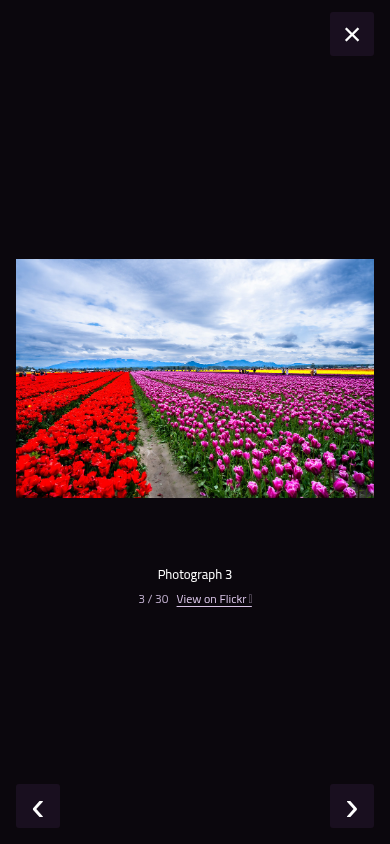
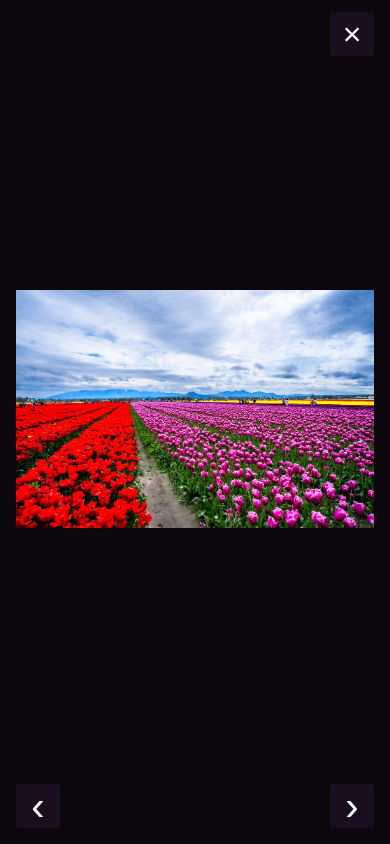
Simplify photo gallery and lightbox presentation

Changed region(s): [[0.0308, 0.3081, 0.9846, 0.6469], [0.4, 0.6777, 0.6462, 0.7393]]

diff --git a/src/style.css b/src/style.css
@@ -1,2 +1,2 @@
 :root{color-scheme:dark;font-family:'Cairo',sans-serif;color:#f5f3f8;background:#180829;font-synthesis:none;text-rendering:optimizeLegibility;-webkit-font-smoothing:antialiased}
-*{box-sizing:border-box}body{margin:0;min-width:280px;min-height:100dvh}a{color:inherit;text-underline-offset:.22em}button{font:inherit;color:inherit;cursor:pointer}button,a{-webkit-tap-highlight-color:transparent}button:focus-visible,a:focus-visible{outline:2px solid #e0b6ff;outline-offset:5px}button:disabled{cursor:default}[hidden]{display:none!important}.sr-only{position:absolute;width:1px;height:1px;overflow:hidden;clip-path:inset(50%);white-space:nowrap}.skip-link{position:fixed;left:12px;top:12px;padding:12px;background:#28113e;z-index:100;transform:translateY(-160%)}.skip-link:focus{transform:none}.background{position:fixed;inset:0;z-index:-1;background:#211039 url('/background.jpg') center/cover no-repeat;pointer-events:none}.background-video{position:absolute;inset:0;width:100%;height:100%;object-fit:cover;opacity:0;transition:opacity .25s}.background-video.is-playing{opacity:1}.background-shade{position:absolute;inset:0;background:rgba(0,0,0,.66);transition:opacity .4s}body[data-page=home] .background-shade{opacity:0}.site-header{position:relative;z-index:2;padding:12px 20px 8px;transition:transform .3s}nav{display:flex;justify-content:center;gap:32px;font-family:'Poiret One',sans-serif;font-size:36px;line-height:1.4}nav a{position:relative;text-decoration:none;padding:4px 0;white-space:nowrap}nav a::after{content:'';position:absolute;bottom:0;left:0;right:0;height:1px;background:currentColor;transform:scaleX(0);transition:transform .2s}nav a:hover::after,nav a[aria-current=page]::after{transform:scaleX(1)}nav a[aria-current=page]{text-shadow:0 0 8px #fff8}body[data-page=home] .site-header{transform:translateY(40vh)}#main{outline:none;max-width:1440px;margin:12px auto 0;padding:0 32px 72px}body[data-page=home] #main{padding:0;margin:0}.motion-toggle{position:fixed;right:16px;bottom:12px;z-index:3;padding:6px 12px;font-size:12px;letter-spacing:.03em;background:#170824d9;border:1px solid #bba8d060;border-radius:3px}.motion-toggle:hover{background:#392246}.about-page{max-width:1120px;margin:20px auto;display:grid;grid-template-columns:minmax(240px,1fr) 2fr;gap:48px;animation:page-in .35s ease-out}.profile{align-self:start}.portrait{display:block;width:100%;height:auto;aspect-ratio:2/3;object-fit:cover}.profile h1{font-family:'Poiret One',sans-serif;font-weight:400;font-size:38px;line-height:1.2;margin:22px 0 8px}.subtitle{font-family:'Poiret One',sans-serif;font-size:23px;line-height:1.4;margin:0}.about-copy{font-size:16px;line-height:1.7}.about-copy>p{margin-top:0}.about-copy section{margin-top:28px}.about-copy h2{font-family:'Poiret One',sans-serif;font-size:27px;line-height:1.3;font-weight:400;margin:0 0 9px}.about-copy p{margin:0}.about-copy a{color:#dcb8f5}.photography-page{animation:page-in .35s ease-out}.gallery{display:grid;grid-template-columns:repeat(auto-fit,minmax(min(100%,280px),1fr));gap:4px}.photo-card{position:relative;min-width:0}.photo-open{position:relative;display:block;width:100%;aspect-ratio:1;border:0;padding:0;background:#24152f;overflow:hidden}.photo-open img{display:block;width:100%;height:100%;object-fit:cover;opacity:0;transition:opacity .35s,filter .3s,transform .3s}.photo-open.loaded img{opacity:1}.photo-fallback{display:none;position:absolute;inset:0;place-items:center;font-size:13px}.image-failed .photo-fallback{display:grid}.photo-source{position:absolute;bottom:7px;right:7px;font-size:10px;line-height:1;padding:6px;background:#170b21ad;text-decoration:none;opacity:0;transition:opacity .2s}.photo-card:focus-within .photo-source,.photo-card:hover .photo-source{opacity:1}.photo-source:focus-visible{opacity:1}@media(hover:hover) and (pointer:fine){.photo-open img{filter:grayscale(1) brightness(.9)}.photo-open:hover img,.photo-open:focus-visible img{filter:none;transform:scale(1.035)}}.gallery-credit{font-size:13px;text-align:center;color:#cbbbd4;margin:24px 0}.gallery-status{padding:80px 20px;text-align:center;min-height:40vh}.text-button{border:1px solid #aa8cbd;background:#352144;padding:8px 20px;margin-top:18px;border-radius:3px}.lightbox{position:fixed;inset:0;border:0;padding:0;margin:0;width:100vw;height:100dvh;max-width:none;max-height:none;background:#0b070ef5;color:#fff;overflow:auto}.lightbox::backdrop{background:#09050d}.lightbox-shell{min-height:100%;display:flex;align-items:center;justify-content:center;padding:56px 64px 48px}.lightbox figure{margin:0;width:100%;text-align:center}.lightbox-image-wrap{display:flex;align-items:center;justify-content:center;min-height:40vh}.lightbox img{display:block;max-width:100%;max-height:calc(100dvh - 160px);width:auto;height:auto;object-fit:contain}.lightbox figcaption{display:flex;align-items:center;justify-content:center;gap:20px;flex-wrap:wrap;margin-top:18px;font-size:14px;line-height:1.4}.lightbox-count{color:#bbaac8;font-size:12px}.lightbox-source{font-size:12px;color:#d8c3e6}.icon-button{border:0;background:#211329aa;border-radius:3px;width:44px;height:44px;display:grid;place-items:center;line-height:1;font-family:Arial,sans-serif;font-size:40px}.lightbox-close{position:absolute;top:12px;right:16px;font-size:32px}.lightbox-prev,.lightbox-next{position:absolute;top:45%;z-index:2}.lightbox-prev{left:8px}.lightbox-next{right:8px}.lightbox-status{position:absolute;bottom:12px;left:48px;right:48px;text-align:center;font-size:13px}.not-found{padding:80px 0;text-align:center}.noscript-message{position:relative;margin:48vh auto 0;padding:24px;max-width:600px;text-align:center}@keyframes page-in{from{opacity:0}to{opacity:1}}@media(max-width:960px){.about-page{gap:28px}.gallery{grid-template-columns:repeat(2,minmax(0,1fr))}}@media(max-width:640px){.site-header{padding:14px 12px 8px}nav{font-size:clamp(24px,6.4vw,32px);gap:22px}#main{padding:0 12px 66px;margin-top:14px}.about-page{display:block;max-width:440px;margin:12px auto}.profile{max-width:320px;margin:0 auto 30px}.profile h1{font-size:34px}.about-copy{font-size:15px}.gallery{gap:3px}.photo-source{opacity:1;font-size:9px;padding:4px}.gallery-credit{font-size:11px}.motion-toggle{font-size:11px;right:10px;bottom:10px}.lightbox-shell{padding:64px 16px 90px}.lightbox img{max-height:calc(100dvh - 220px)}.lightbox-prev,.lightbox-next{top:auto;bottom:16px}.lightbox-prev{left:16px}.lightbox-next{right:16px}.lightbox figcaption{gap:8px;font-size:13px}.lightbox figcaption #lightbox-title{width:100%}.lightbox-status{bottom:66px;left:16px;right:16px;font-size:12px}}@media(prefers-reduced-motion:reduce){*,*::before,*::after{animation:none!important;transition:none!important;scroll-behavior:auto!important}}
+*{box-sizing:border-box}body{margin:0;min-width:280px;min-height:100dvh}a{color:inherit;text-underline-offset:.22em}button{font:inherit;color:inherit;cursor:pointer}button,a{-webkit-tap-highlight-color:transparent}button:focus-visible,a:focus-visible{outline:2px solid #e0b6ff;outline-offset:5px}button:disabled{cursor:default}[hidden]{display:none!important}.sr-only{position:absolute;width:1px;height:1px;overflow:hidden;clip-path:inset(50%);white-space:nowrap}.skip-link{position:fixed;left:12px;top:12px;padding:12px;background:#28113e;z-index:100;transform:translateY(-160%)}.skip-link:focus{transform:none}.background{position:fixed;inset:0;z-index:-1;background:#211039 url('/background.jpg') center/cover no-repeat;pointer-events:none}.background-video{position:absolute;inset:0;width:100%;height:100%;object-fit:cover;opacity:0;transition:opacity .25s}.background-video.is-playing{opacity:1}.background-shade{position:absolute;inset:0;background:rgba(0,0,0,.66);transition:opacity .4s}body[data-page=home] .background-shade{opacity:0}.site-header{position:relative;z-index:2;padding:12px 20px 8px;transition:transform .3s}nav{display:flex;justify-content:center;gap:32px;font-family:'Poiret One',sans-serif;font-size:36px;line-height:1.4}nav a{position:relative;text-decoration:none;padding:4px 0;white-space:nowrap}nav a::after{content:'';position:absolute;bottom:0;left:0;right:0;height:1px;background:currentColor;transform:scaleX(0);transition:transform .2s}nav a:hover::after,nav a[aria-current=page]::after{transform:scaleX(1)}nav a[aria-current=page]{text-shadow:0 0 8px #fff8}body[data-page=home] .site-header{transform:translateY(40vh)}#main{outline:none;max-width:1440px;margin:12px auto 0;padding:0 32px 72px}body[data-page=home] #main{padding:0;margin:0}.motion-toggle{position:fixed;right:16px;bottom:12px;z-index:3;padding:6px 12px;font-size:12px;letter-spacing:.03em;background:#170824d9;border:1px solid #bba8d060;border-radius:3px}.motion-toggle:hover{background:#392246}.about-page{max-width:1120px;margin:20px auto;display:grid;grid-template-columns:minmax(240px,1fr) 2fr;gap:48px;animation:page-in .35s ease-out}.profile{align-self:start}.portrait{display:block;width:100%;height:auto;aspect-ratio:2/3;object-fit:cover}.profile h1{font-family:'Poiret One',sans-serif;font-weight:400;font-size:38px;line-height:1.2;margin:22px 0 8px}.subtitle{font-family:'Poiret One',sans-serif;font-size:23px;line-height:1.4;margin:0}.about-copy{font-size:16px;line-height:1.7}.about-copy>p{margin-top:0}.about-copy section{margin-top:28px}.about-copy h2{font-family:'Poiret One',sans-serif;font-size:27px;line-height:1.3;font-weight:400;margin:0 0 9px}.about-copy p{margin:0}.about-copy a{color:#dcb8f5}.photography-page{animation:page-in .35s ease-out}.gallery{display:grid;grid-template-columns:repeat(auto-fit,minmax(min(100%,280px),1fr));gap:4px}.photo-card{position:relative;min-width:0}.photo-open{position:relative;display:block;width:100%;aspect-ratio:1;border:0;padding:0;background:#24152f;overflow:hidden}.photo-open img{display:block;width:100%;height:100%;object-fit:cover;opacity:0;transition:opacity .35s,filter .3s,transform .3s}.photo-open.loaded img{opacity:1}.photo-fallback{display:none;position:absolute;inset:0;place-items:center;font-size:13px}.image-failed .photo-fallback{display:grid}@media(hover:hover) and (pointer:fine){.photo-open img{filter:grayscale(1) brightness(.9)}.photo-open:hover img,.photo-open:focus-visible img{filter:none;transform:scale(1.035)}}.gallery-status{padding:80px 20px;text-align:center;min-height:40vh}.text-button{border:1px solid #aa8cbd;background:#352144;padding:8px 20px;margin-top:18px;border-radius:3px}.lightbox{position:fixed;inset:0;border:0;padding:0;margin:0;width:100vw;height:100dvh;max-width:none;max-height:none;background:#0b070ef5;color:#fff;overflow:auto}.lightbox::backdrop{background:#09050d}.lightbox-shell{min-height:100%;display:flex;align-items:center;justify-content:center;padding:56px 64px 48px}.lightbox-image-wrap{width:100%;display:flex;align-items:center;justify-content:center;min-height:40vh}.lightbox img{display:block;max-width:100%;max-height:calc(100dvh - 120px);width:auto;height:auto;object-fit:contain}.icon-button{border:0;background:#211329aa;border-radius:3px;width:44px;height:44px;display:grid;place-items:center;line-height:1;font-family:Arial,sans-serif;font-size:40px}.lightbox-close{position:absolute;top:12px;right:16px;font-size:32px}.lightbox-prev,.lightbox-next{position:absolute;top:45%;z-index:2}.lightbox-prev{left:8px}.lightbox-next{right:8px}.lightbox-status{position:absolute;bottom:12px;left:48px;right:48px;text-align:center;font-size:13px}.not-found{padding:80px 0;text-align:center}.noscript-message{position:relative;margin:48vh auto 0;padding:24px;max-width:600px;text-align:center}@keyframes page-in{from{opacity:0}to{opacity:1}}@media(max-width:960px){.about-page{gap:28px}.gallery{grid-template-columns:repeat(2,minmax(0,1fr))}}@media(max-width:640px){.site-header{padding:14px 12px 8px}nav{font-size:clamp(24px,6.4vw,32px);gap:22px}#main{padding:0 12px 66px;margin-top:14px}.about-page{display:block;max-width:440px;margin:12px auto}.profile{max-width:320px;margin:0 auto 30px}.profile h1{font-size:34px}.about-copy{font-size:15px}.gallery{gap:3px}.motion-toggle{font-size:11px;right:10px;bottom:10px}.lightbox-shell{padding:64px 16px 90px}.lightbox img{max-height:calc(100dvh - 160px)}.lightbox-prev,.lightbox-next{top:auto;bottom:16px}.lightbox-prev{left:16px}.lightbox-next{right:16px}.lightbox-status{bottom:66px;left:16px;right:16px;font-size:12px}}@media(prefers-reduced-motion:reduce){*,*::before,*::after{animation:none!important;transition:none!important;scroll-behavior:auto!important}}

diff --git a/src/gallery.ts b/src/gallery.ts
@@ -5,7 +5,6 @@ export async function renderGallery(main: HTMLElement, signal: AbortSignal): Pro
     <h1 id="page-title" class="sr-only">Photography</h1>
     <div class="gallery-status" role="status">Loading photographs…</div>
     <div class="gallery"></div>
-    <p class="gallery-credit">Photography by Olga Zinoveva · <a href="https://www.flickr.com/photos/93665003@N05/" target="_blank" rel="noopener noreferrer">View on Flickr ↗</a></p>
   </section>`;
   const status = main.querySelector<HTMLElement>('.gallery-status')!;
   const grid = main.querySelector<HTMLElement>('.gallery')!;
@@ -30,10 +29,7 @@ export async function renderGallery(main: HTMLElement, signal: AbortSignal): Pro
       const fallback = document.createElement('span'); fallback.className = 'photo-fallback'; fallback.textContent = 'Preview unavailable';
       button.append(image, fallback);
       button.addEventListener('click', () => lightbox.open(index, button), {signal});
-      const link = document.createElement('a'); link.className = 'photo-source'; link.href = photo.pageUrl;
-      link.target = '_blank'; link.rel = 'noopener noreferrer'; link.textContent = 'Flickr ↗';
-      link.setAttribute('aria-label', `${photo.title || `Photograph ${index + 1}`} on Flickr`);
-      card.append(button, link); grid.append(card);
+      card.append(button); grid.append(card);
     });
   } catch {
     if (signal.aborted) return;
@@ -44,11 +40,11 @@ export async function renderGallery(main: HTMLElement, signal: AbortSignal): Pro
   }
 }
 function createLightbox(photos: Photo[], signal: AbortSignal): { open: (index: number, trigger: HTMLElement) => void } {
-  const dialog = document.createElement('dialog'); dialog.className = 'lightbox'; dialog.setAttribute('aria-labelledby','lightbox-title');
+  const dialog = document.createElement('dialog'); dialog.className = 'lightbox'; dialog.setAttribute('aria-label','Photograph');
   dialog.innerHTML = `<div class="lightbox-shell">
     <button class="lightbox-close icon-button" type="button" aria-label="Close photograph">×</button>
     <button class="lightbox-prev icon-button" type="button" aria-label="Previous photograph">‹</button>
-    <figure><div class="lightbox-image-wrap"></div><figcaption><span id="lightbox-title"></span><span class="lightbox-count"></span><a class="lightbox-source" target="_blank" rel="noopener noreferrer">View on Flickr ↗</a></figcaption></figure>
+    <div class="lightbox-image-wrap"></div>
     <button class="lightbox-next icon-button" type="button" aria-label="Next photograph">›</button>
     <p class="lightbox-status" role="status"></p>
   </div>`;
@@ -62,14 +58,12 @@ function createLightbox(photos: Photo[], signal: AbortSignal): { open: (index: n
   function show(next: number): void {
     index = (next + photos.length) % photos.length;
     const photo = photos[index];
-    dialog.querySelector('#lightbox-title')!.textContent = photo.title || 'Untitled photograph';
-    dialog.querySelector('.lightbox-count')!.textContent = `${index + 1} / ${photos.length}`;
-    dialog.querySelector<HTMLAnchorElement>('.lightbox-source')!.href = photo.pageUrl;
+    dialog.setAttribute('aria-label', photo.title || 'Untitled photograph');
     status.textContent = 'Loading photograph…';
     const image = document.createElement('img'); image.alt = photo.title || 'Untitled photograph';
     image.width = photo.width; image.height = photo.height;
     image.addEventListener('load', () => { if (wrap.contains(image)) status.textContent = ''; }, {signal});
-    image.addEventListener('error', () => { if (wrap.contains(image)) { status.textContent = 'This photograph could not load. Try the next photograph or view it on Flickr.'; image.hidden = true; } }, {signal});
+    image.addEventListener('error', () => { if (wrap.contains(image)) { status.textContent = 'This photograph could not load. Try the next photograph.'; image.hidden = true; } }, {signal});
     image.sizes = '(max-width: 640px) calc(100vw - 32px), 90vw';
     image.srcset = srcset(photo); image.src = photo.variants.at(-1)!.url;
     wrap.replaceChildren(image);

diff --git a/tests/browser/site.spec.ts b/tests/browser/site.spec.ts
@@ -39,9 +39,9 @@ test('accessible lightbox wraps with arrows, traps focus, closes with Escape and
   await page.goto('/photography');const first=page.locator('.photo-open').first();await first.click();
   const dialog=page.getByRole('dialog');await expect(dialog).toBeVisible();
   await expect(page.getByRole('button',{name:'Close photograph',exact:true})).toBeFocused();
-  await page.keyboard.press('ArrowLeft');await expect(page.locator('.lightbox-count')).toHaveText('30 / 30');
-  await page.keyboard.press('ArrowRight');await expect(page.locator('.lightbox-count')).toHaveText('1 / 30');
-  await page.keyboard.press('ArrowRight');await expect(page.locator('.lightbox-count')).toHaveText('2 / 30');
+  await page.keyboard.press('ArrowLeft');await expect(dialog).toHaveAccessibleName('Photograph 30');
+  await page.keyboard.press('ArrowRight');await expect(dialog).toHaveAccessibleName('Photograph 1');
+  await page.keyboard.press('ArrowRight');await expect(page.getByRole('dialog')).toHaveAccessibleName('Photograph 2');
   for(let i=0;i<8;i++)await page.keyboard.press('Tab');
   expect(await page.evaluate(()=>!!document.activeElement?.closest('dialog'))).toBe(true);
   await page.keyboard.press('Escape');await expect(dialog).not.toBeVisible();await expect(first).toBeFocused();
@@ -54,7 +54,7 @@ test('phone resize, failed image and repeated gallery navigation remain usable',
   await page.route(/\/api\/photos\/1000\/\d+\.jpg$/,route=>route.fulfill({status:502}));
   await page.reload();await expect(page.locator('.photo-open').first()).toHaveClass(/image-failed/);
   await page.locator('.photo-open').first().click();await expect(page.locator('.lightbox-status')).toContainText('could not load');
-  await page.getByRole('button',{name:'Next photograph',exact:true}).click();await expect(page.locator('.lightbox-count')).toHaveText('2 / 30');
+  await page.getByRole('button',{name:'Next photograph',exact:true}).click();await expect(page.getByRole('dialog')).toHaveAccessibleName('Photograph 2');
   await page.keyboard.press('Escape');
   for(let i=0;i<3;i++){await page.getByRole('link',{name:'About',exact:true}).click();await expect(page.locator('dialog')).toHaveCount(0);await page.getByRole('link',{name:'Photography',exact:true}).click();await expect(page.locator('dialog')).toHaveCount(1);}
 });
@@ -85,4 +85,15 @@ test('history restores gallery scroll and route changes clean up an open modal',
   await page.locator('.photo-open').first().click();await expect(page.getByRole('dialog')).toBeVisible();
   await page.goForward();await expect(page).toHaveTitle('About · Olga Zinoveva');await expect(page.locator('dialog')).toHaveCount(0);
   expect(await page.locator('body').evaluate(el=>el.style.overflow)).toBe('');
+});
+
+test('photos have no corner links and lightbox shows only image and navigation controls',async({page})=>{
+  await page.goto('/photography');await expect(page.locator('.photo-open')).toHaveCount(30);
+  await expect(page.locator('.gallery a, .photo-source, .gallery-credit')).toHaveCount(0);
+  await page.locator('.photo-open').first().click();const dialog=page.getByRole('dialog');
+  await expect(dialog).toHaveAccessibleName('Photograph 1');
+  await expect(dialog.locator('img')).toHaveAttribute('alt','Photograph 1');
+  await expect(dialog.locator('figcaption, a, .lightbox-count, .lightbox-source')).toHaveCount(0);
+  await expect(page.locator('.lightbox-status')).toHaveText('');
+  await expect(dialog).toHaveText('× ‹ ›');
 });

diff --git a/docs/review/README.md b/docs/review/README.md
@@ -27,6 +27,8 @@ The purple MP4 design is unchanged. Desktop background playback was paused at a 
 - Preserve the existing visual identity, background colors and home navigation placement.
 - Review local portrait, readable About text, and retained biography content.
 - Review desktop grayscale-to-color hover behavior and phone two-column layout.
-- Test dialog close, next/previous buttons, left/right keys, Escape, focus restoration and Flickr attribution.
+- Test dialog close, next/previous buttons, left/right keys, Escape, focus restoration with no captions, counters or overlaid links.
 - Check the reduced-motion static background and manual pause/play control.
 - Validate against the live Flickr metadata/resizing service on a network that can reach it before any cutover.
+
+Updated after visual review: removed the added per-photo Flickr corner links (UI overlays, not embedded watermarks) and the gallery footer credit, plus all visible lightbox captions, counters and links. Accessible image/dialog names and navigation controls remain.
